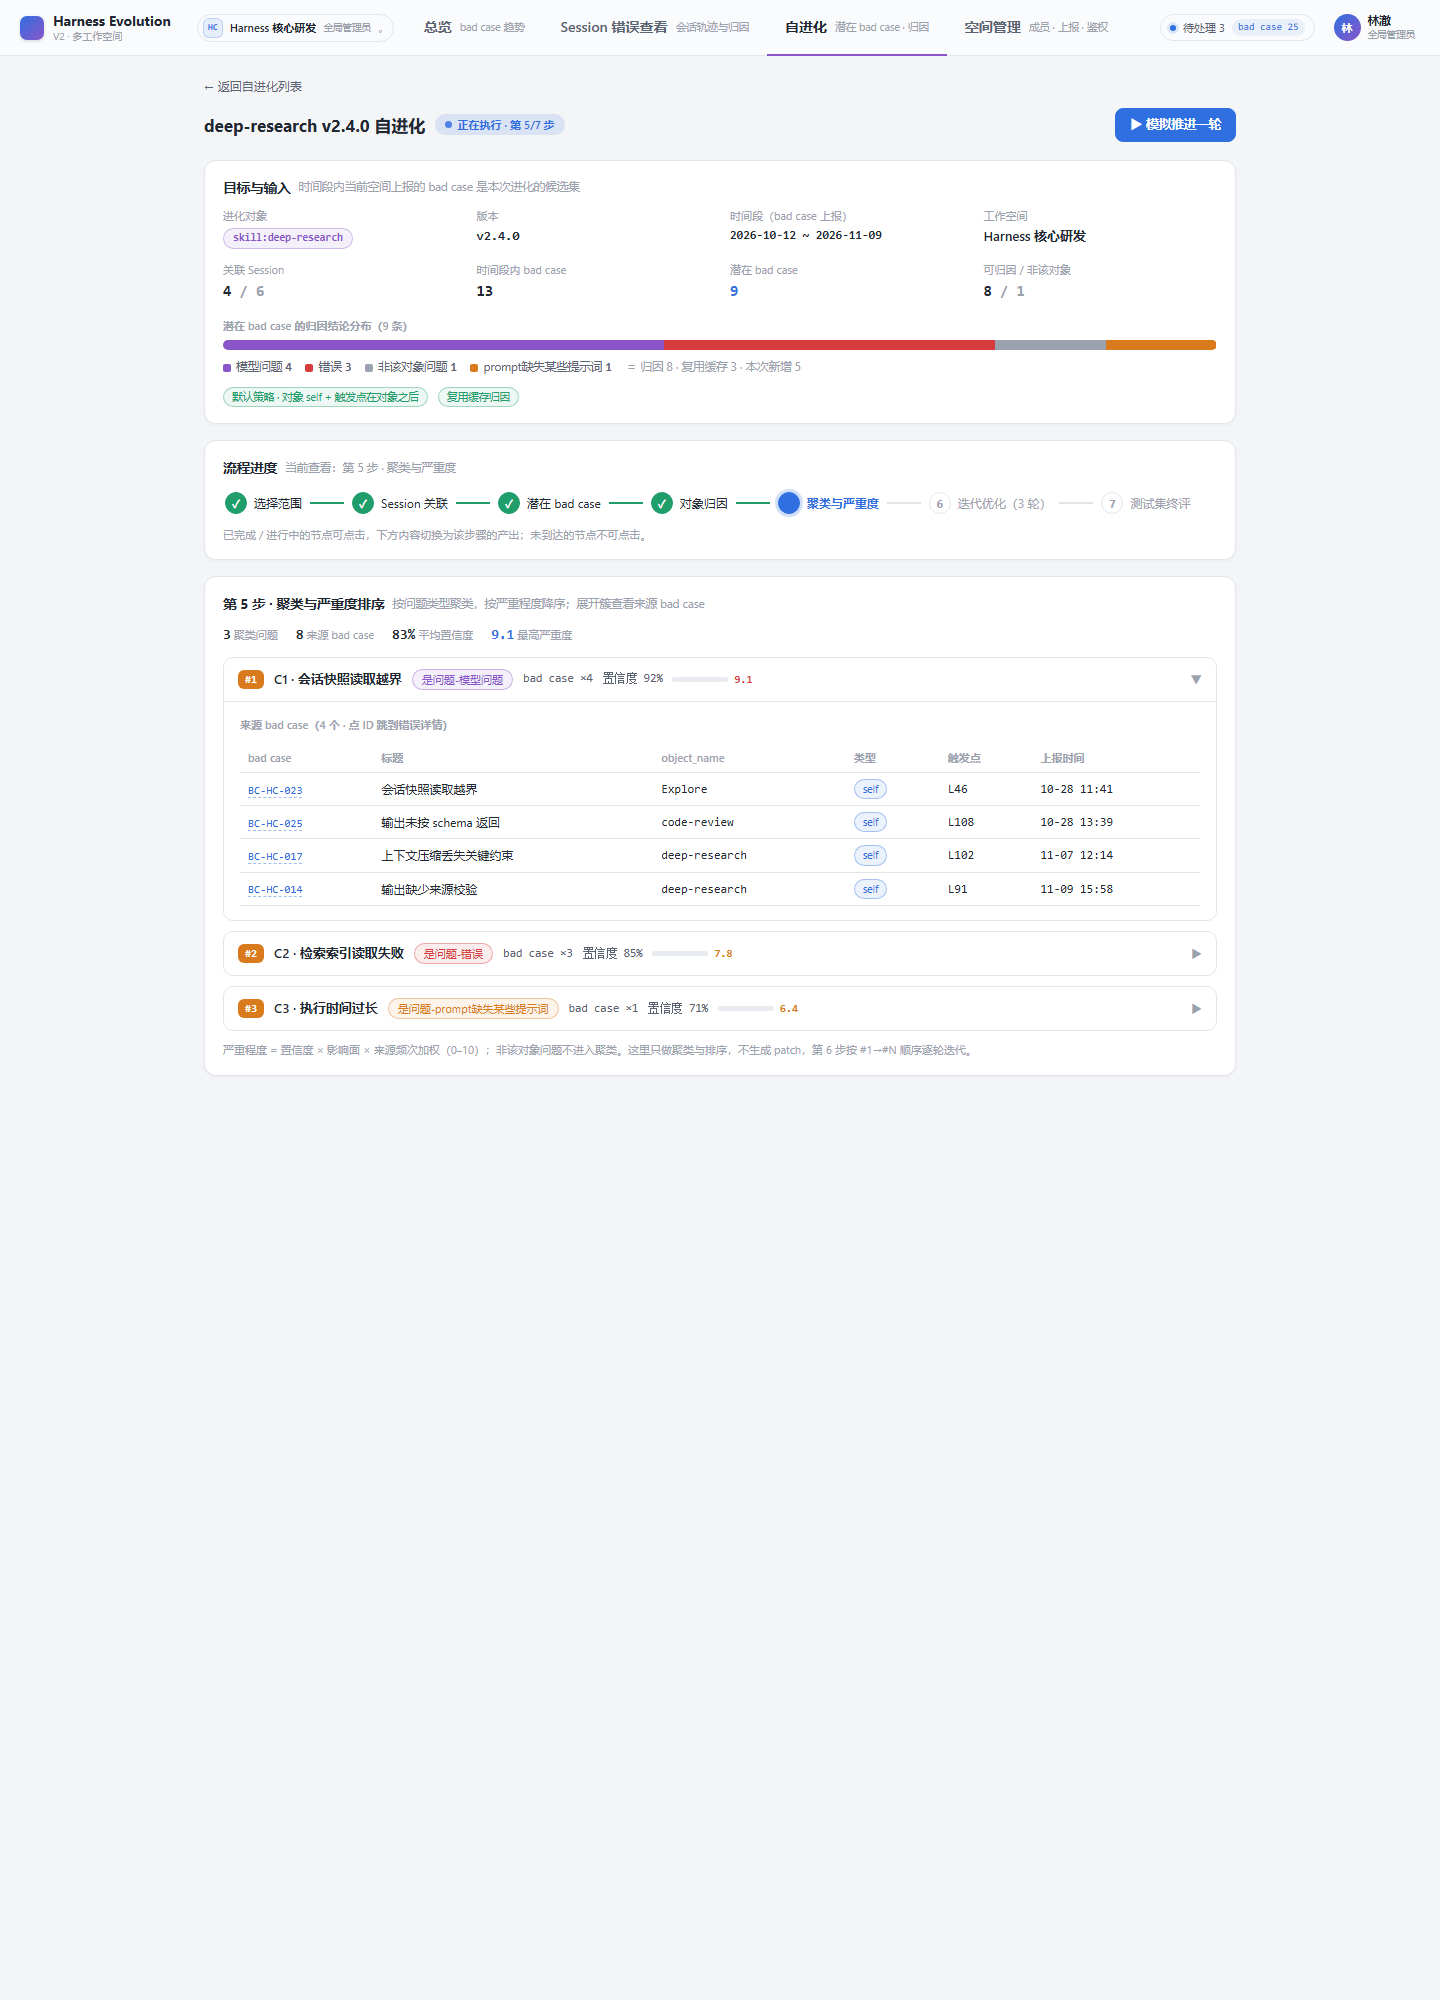
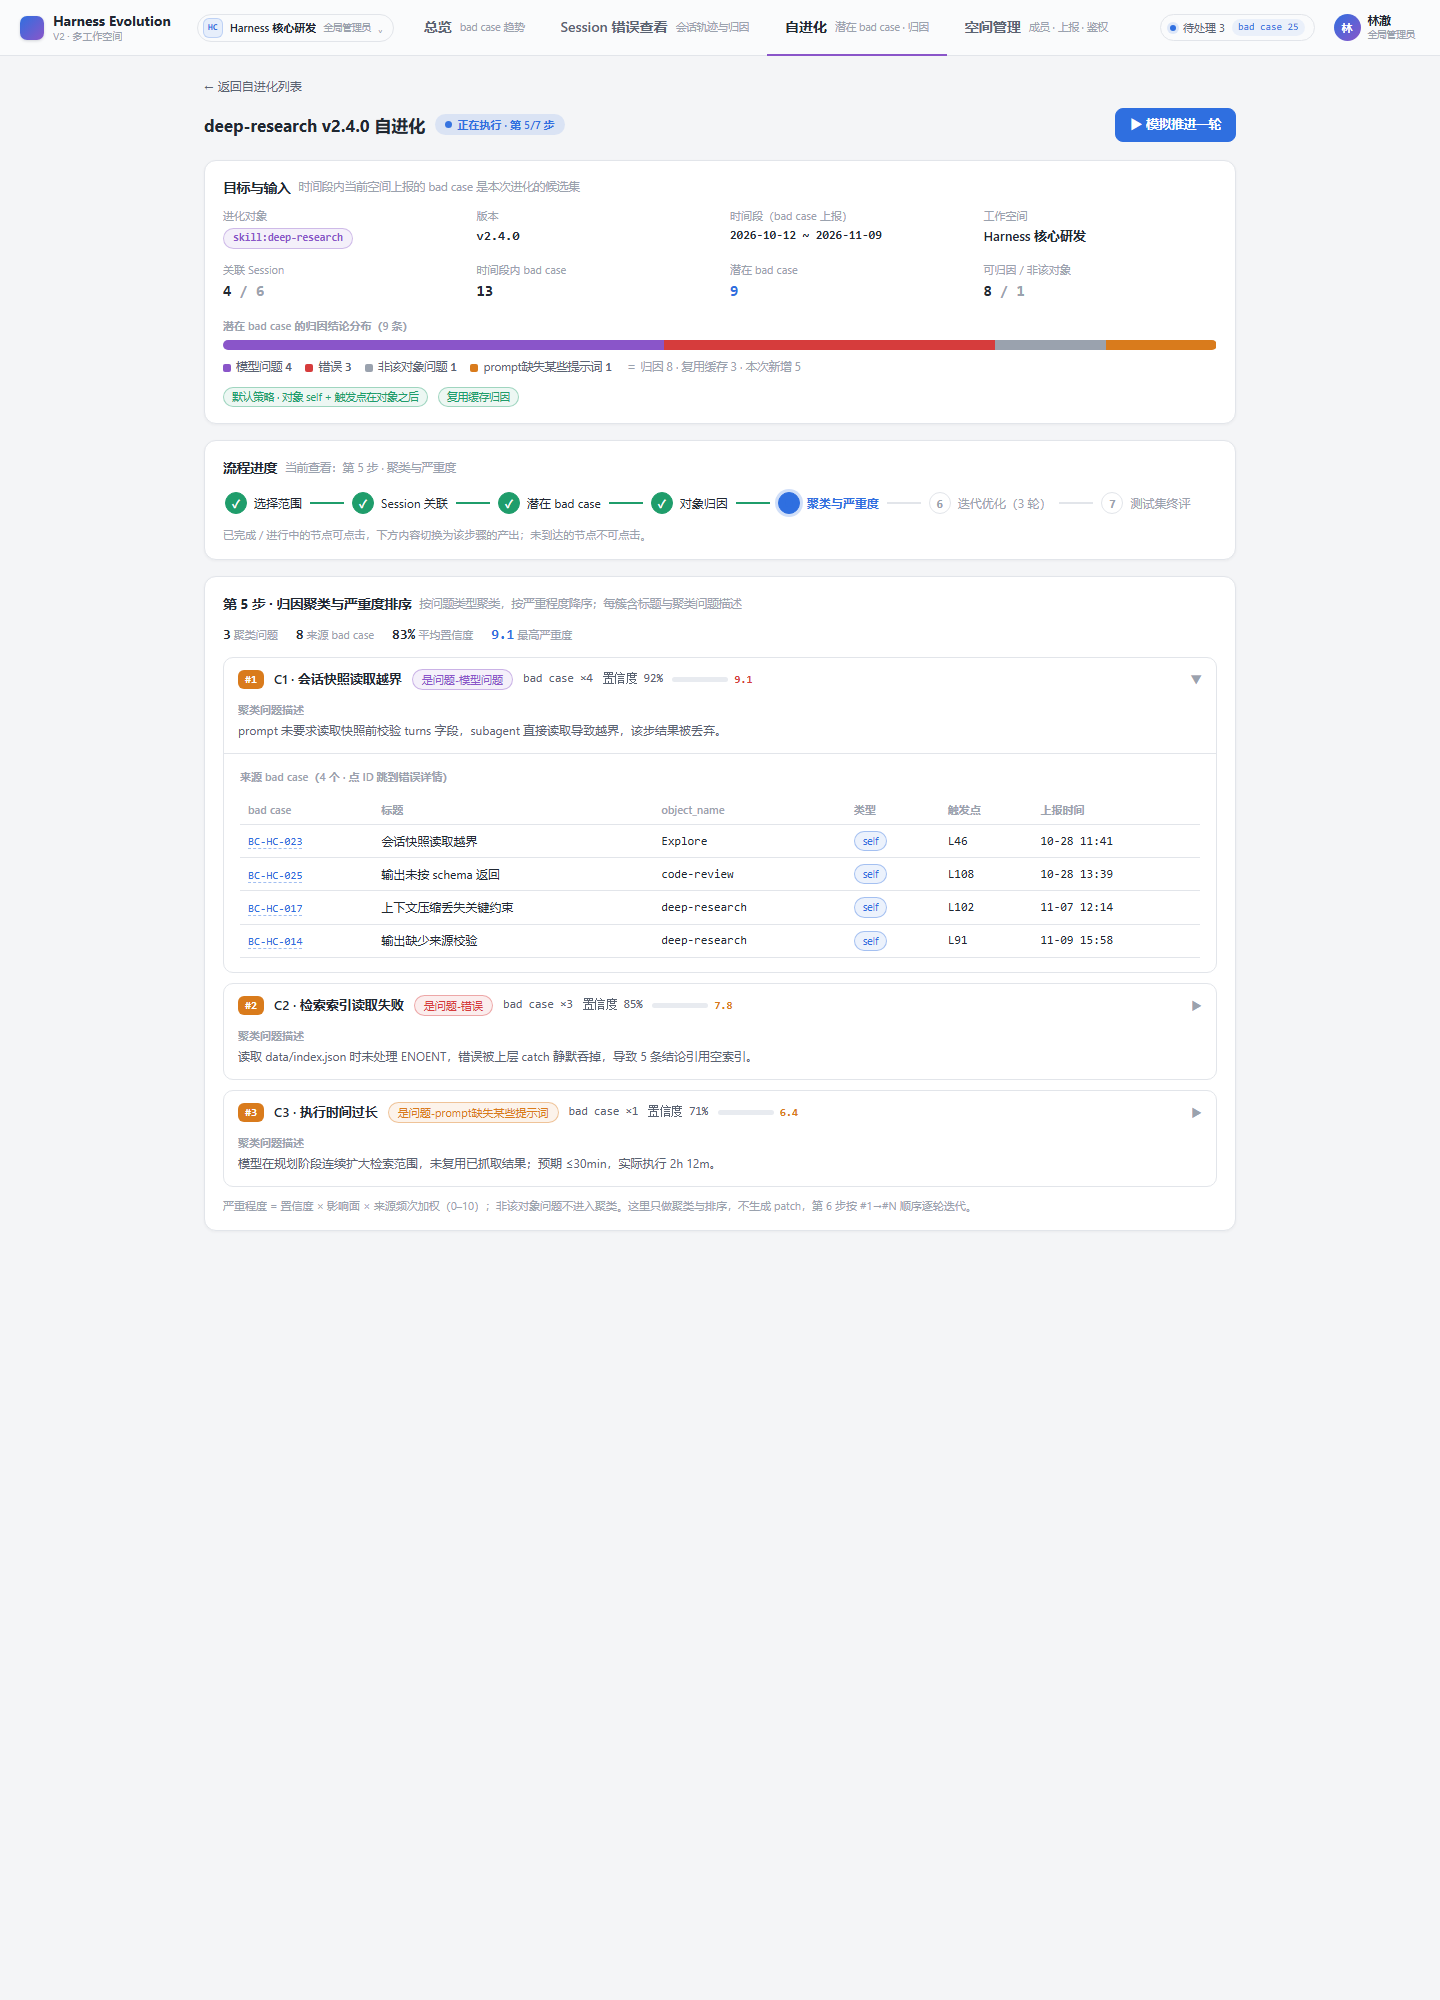
feat(prototype): add cluster title and problem description

diff --git a/plans/ui-prototype-v2/harness-evolution.html b/plans/ui-prototype-v2/harness-evolution.html
@@ -539,6 +539,9 @@
 .evo-app .sev .fill { height: 100%; border-radius: 3px; }
 .evo-app .caret { color: var(--text-faint); font-size: 11px; transition: transform .15s; }
 .evo-app .cluster.open .caret { transform: rotate(90deg); }
+.evo-app .cluster-desc { padding: 0 14px 12px 14px; }
+.evo-app .cluster-desc .cb-label { margin-bottom: 3px; }
+.evo-app .cluster-desc p { margin: 0; color: var(--text-dim); font-size: 12px; line-height: 1.65; max-width: 980px; }
 .evo-app .cluster-body { border-top: 1px solid var(--border); padding: 14px 16px; display: none; }
 .evo-app .cluster.open .cluster-body { display: block; }
 .evo-app .cb-sec { margin-bottom: 14px; }
@@ -3741,13 +3744,17 @@ function evStepCluster(run) {
         <span class="meta">bad case ×${(c.caseIds || []).length}</span><span class="meta">置信度 ${(c.conf * 100).toFixed(0)}%</span>${evSevHTML(c.sev)}
         <span class="tail"><span class="caret">▶</span></span>
       </div>
+      <div class="cluster-desc">
+        <div class="cb-label">聚类问题描述</div>
+        <p>${evEsc(c.phenomenon || '暂无聚类问题描述')}</p>
+      </div>
       ${open ? `<div class="cluster-body">
         <div class="cb-sec"><div class="cb-label">来源 bad case（${(c.caseIds || []).length} 个 · 点 ID 跳到错误详情）</div>${evCaseTable(c)}</div>
       </div>` : ''}
     </div>`;
   }).join('');
   return `<div class="card panel">
-    <div class="sec-title">第 5 步 · 聚类与严重度排序 <span class="sub">按问题类型聚类，按严重程度降序；展开簇查看来源 bad case</span></div>
+    <div class="sec-title">第 5 步 · 归因聚类与严重度排序 <span class="sub">按问题类型聚类，按严重程度降序；每簇含标题与聚类问题描述</span></div>
     <div class="wz-stats" style="margin-bottom:11px">
       <span class="st"><b>${clusters.length}</b><span>聚类问题</span></span>
       <span class="st"><b>${totalCases}</b><span>来源 bad case</span></span>

diff --git a/plans/ui-prototype-v2/design-v2.md b/plans/ui-prototype-v2/design-v2.md
@@ -157,7 +157,7 @@ Content-Type: application/json
 
 原型把 Session 关联与潜在 bad case 拆成向导第 2、3 步：第 2 步只看关联 Session（分页），第 3 步只看潜在 bad case（分页），第 4 步才做归因预览与启动。
 
-运行详情的聚类步骤按严重程度降序展示簇卡片；每个簇可折叠，展开后在簇下方列出全部来源 bad case（ID、标题、object_name、类型、触发点、上报时间），默认展开第一簇。
+运行详情的聚类步骤按严重程度降序展示簇卡片；每簇有标题与聚类问题描述，可折叠，展开后在簇下方列出全部来源 bad case（ID、标题、object_name、类型、触发点、上报时间），默认展开第一簇。
 
 实现上，关联表只列对象出现过的 Session；未出现的 Session 只在统计中计为“跳过”，不进入表格。潜在 bad case 默认策略：
 
